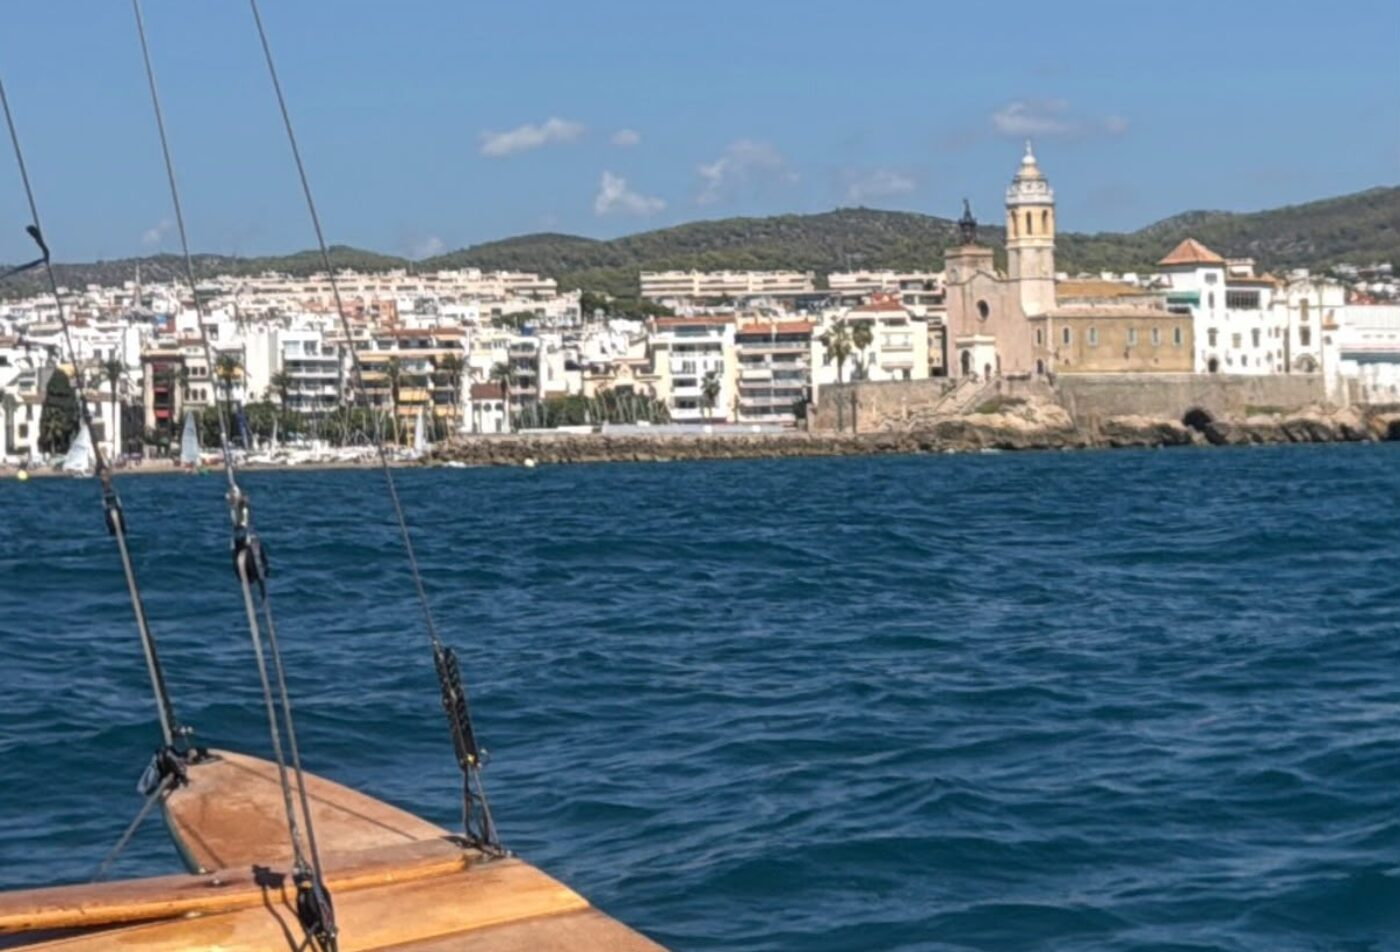
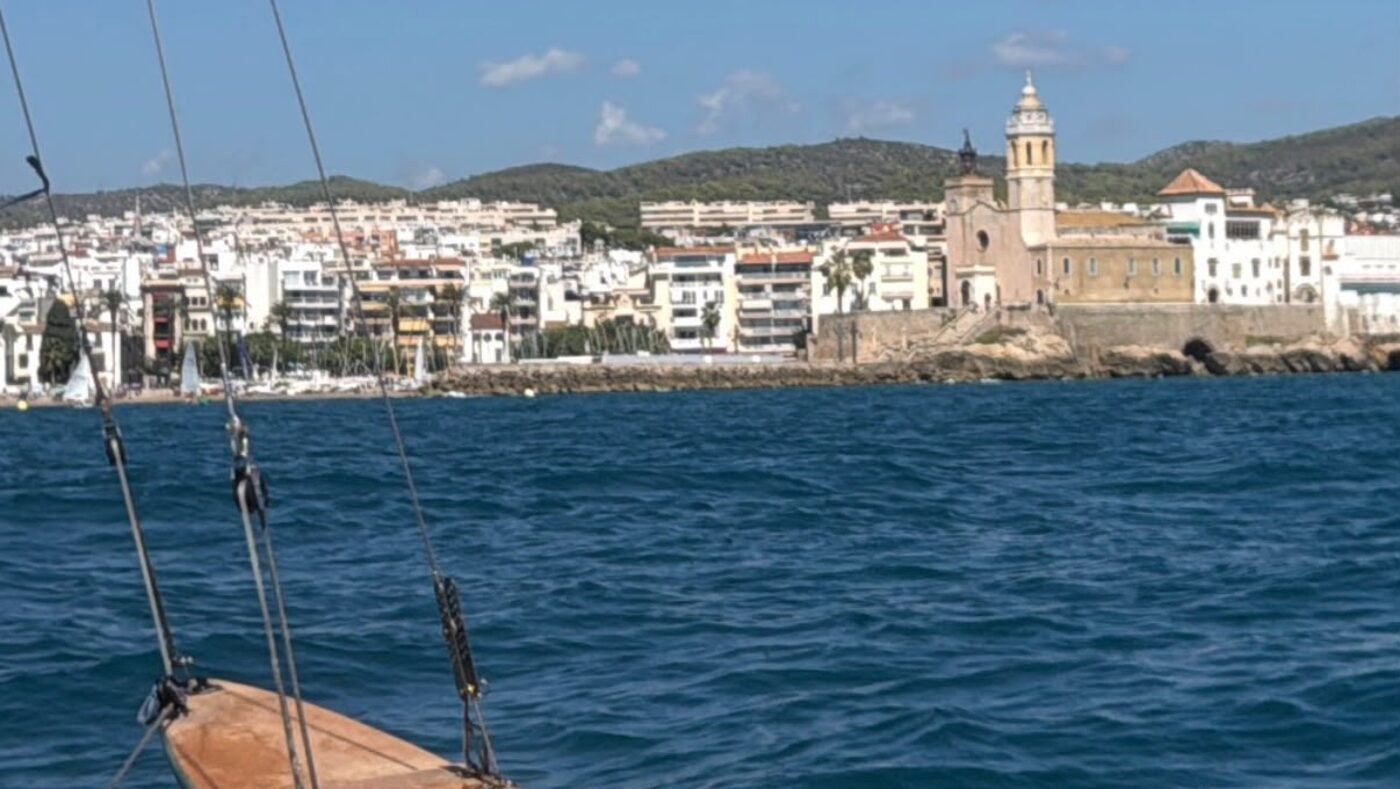
v6.08: Header més estret, església sencera amb roques
Retall panoràmic (1400x789), menys aigua, església completa.

diff --git a/index.html b/index.html
@@ -37,7 +37,7 @@
             background-color: #0b1a3b;
             text-align: center;
             padding: 0 16px;
-            aspect-ratio: 1400/952;
+            aspect-ratio: 1400/789;
             max-height: 55vh;
             display: flex;
             align-items: center;
@@ -1171,7 +1171,7 @@
         <img class="header-photo" src="img/verdi.jpg?v=596" alt="Patí català navegant">
         <div class="header-text">
             <h1>Avui Regu ?<span class="title-accent">&mdash; Sitges &mdash;</span></h1>
-            <div class="subtitle">v6.07</div>
+            <div class="subtitle">v6.08</div>
         </div>
     </div>
 </header>
